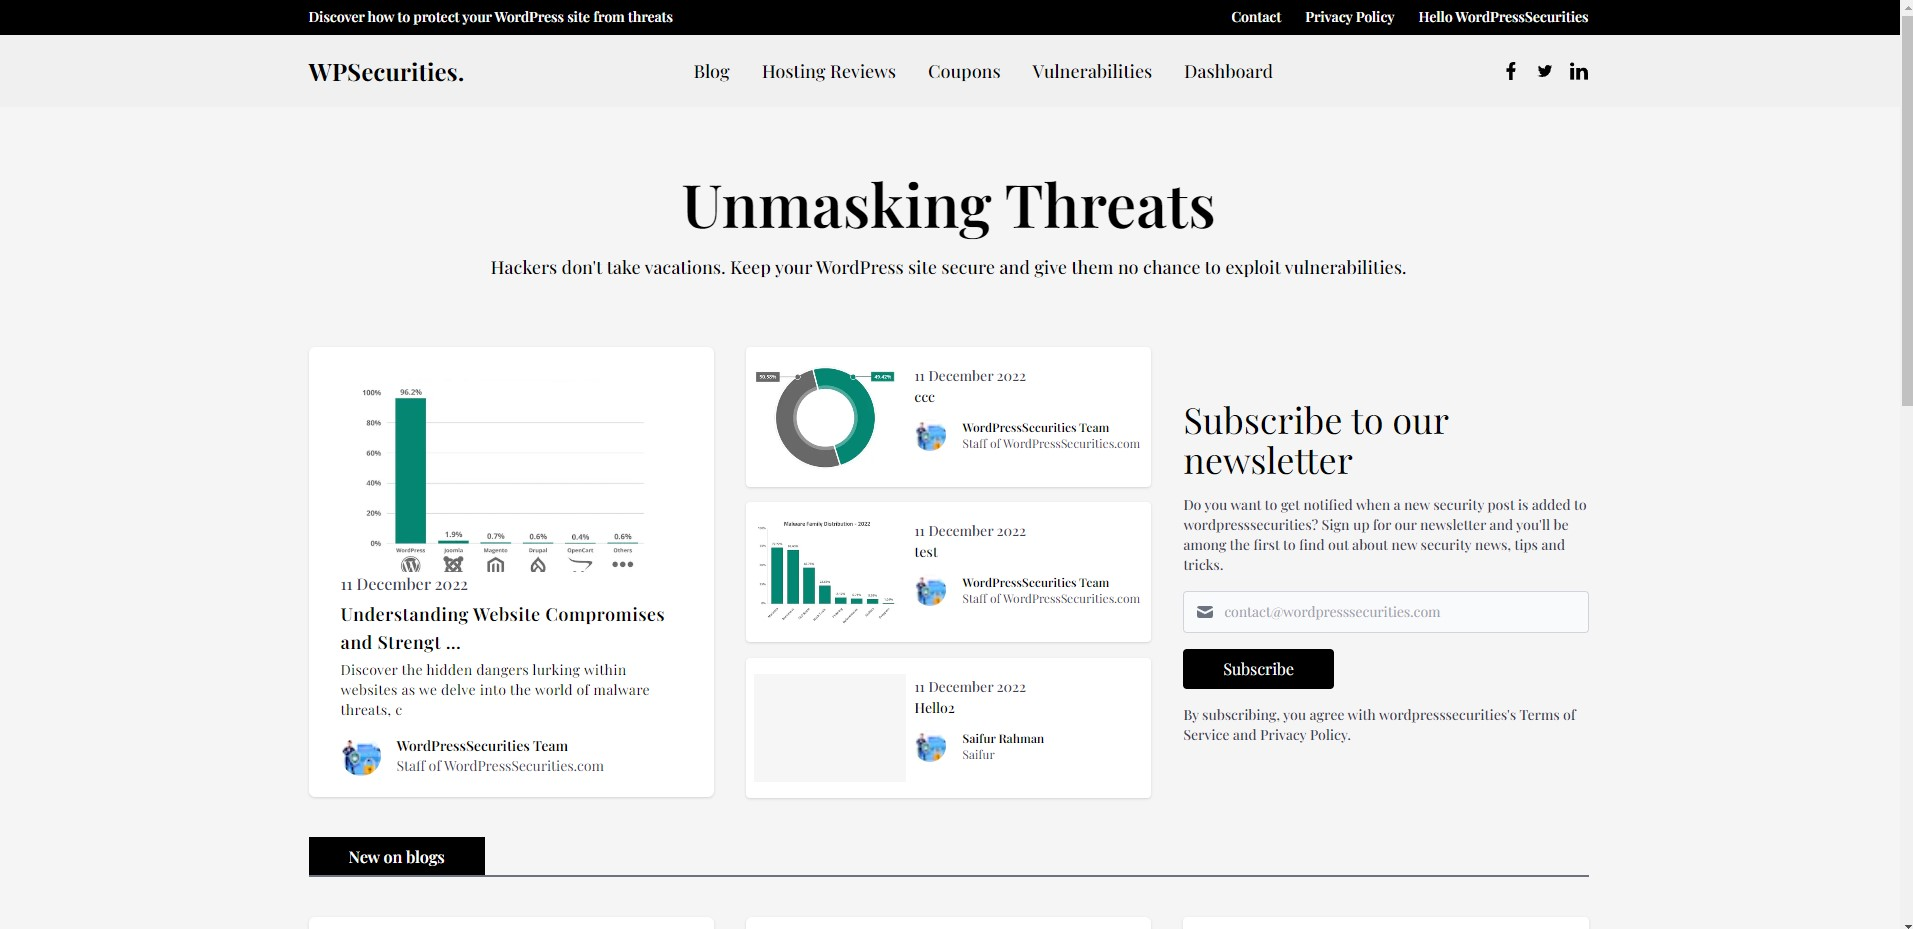
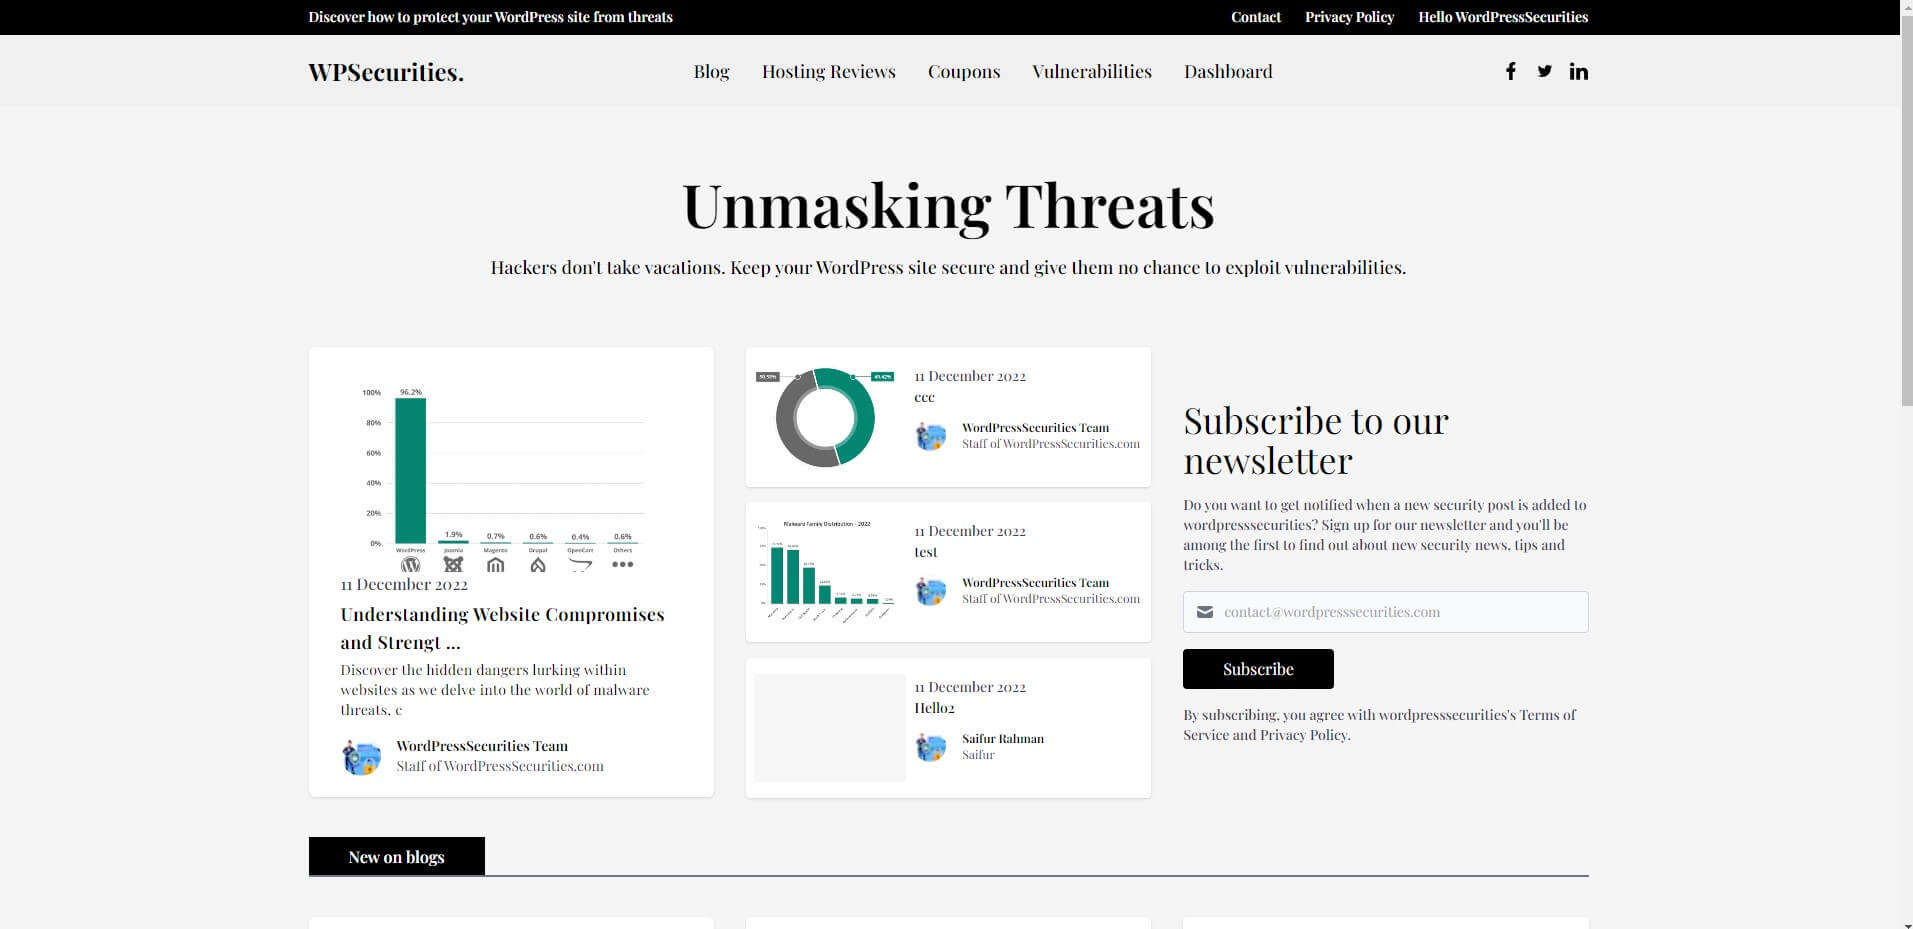
Optimized images

diff --git a/app/Projects.tsx b/app/Projects.tsx
@@ -1,80 +1,83 @@
-import React from "react";
-import Image, { StaticImageData } from "next/image";
-import Title from "@/components/Title";
-import { Button } from "@/components/Button";
-import Link from "next/link";
-import { ArrowUpRight } from "@/components/Icons";
+import React from 'react';
+import Image, { StaticImageData } from 'next/image';
+import Title from '@/components/Title';
+import { Button } from '@/components/Button';
+import Link from 'next/link';
+import { ArrowUpRight } from '@/components/Icons';
+import wordpresssecurities from '@/public/wordpresssecurities.jpg';
+import vehicleTracking from '@/public/vehicleTracking.png';
+import snakgeGame from '@/public/snakge-game.jpg';
 
 const projects = [
   {
-    number: "01",
-    top: "10%",
-    title: "WordPress Securities",
-    subTitle: "Full stack application",
-    imgUrl: "/wordpresssecurities.jpg",
+    number: '01',
+    top: '10%',
+    title: 'WordPress Securities',
+    subTitle: 'Full stack application',
+    imgUrl: wordpresssecurities,
     description: `WordPressSecurities.com is dedicated to providing top-notch WordPress Security and Malware removal services.`,
     technologies: [
-      "Typescript",
-      "Next.js",
-      "Mongodb",
-      "Prisma",
-      "Clerk Auth",
-      "tailwindcss",
-      "cloudinary",
-      "zustand",
-      "stripe",
-      "pusher",
-      "shadcn/ui",
-      "headless wordpress",
-      "contentful",
+      'Typescript',
+      'Next.js',
+      'Mongodb',
+      'Prisma',
+      'Clerk Auth',
+      'tailwindcss',
+      'cloudinary',
+      'zustand',
+      'stripe',
+      'pusher',
+      'shadcn/ui',
+      'headless wordpress',
+      'contentful',
     ],
-    liveLink: "https://www.wordpresssecurities.com/",
-    github: "https://github.com/mdpabel/WordPressSecurities",
+    liveLink: 'https://www.wordpresssecurities.com/',
+    github: 'https://github.com/mdpabel/WordPressSecurities',
   },
   {
-    number: "02",
-    top: "16%",
-    title: "Real time vehicle tracking system",
-    subTitle: "Full stack application",
-    imgUrl: "/vehicleTracking.png",
+    number: '02',
+    top: '16%',
+    title: 'Real time vehicle tracking system',
+    subTitle: 'Full stack application',
+    imgUrl: vehicleTracking,
     description:
-      "Real-time Vehicle Tracking is a fullstack application that enables users to track the real-time location of vehicles. ",
+      'Real-time Vehicle Tracking is a fullstack application that enables users to track the real-time location of vehicles. ',
     technologies: [
-      "Javascript",
-      "NodeJs",
-      "ExpressJs",
-      "React-native",
-      "Redis",
-      "IoT sensors",
-      "socket.io",
-      "firebase",
+      'Javascript',
+      'NodeJs',
+      'ExpressJs',
+      'React-native',
+      'Redis',
+      'IoT sensors',
+      'socket.io',
+      'firebase',
     ],
-    liveLink: "https://github.com/mdpabel/Real-time-Vehicle-Tracking",
-    github: "https://github.com/mdpabel/Real-time-Vehicle-Tracking",
+    liveLink: 'https://github.com/mdpabel/Real-time-Vehicle-Tracking',
+    github: 'https://github.com/mdpabel/Real-time-Vehicle-Tracking',
   },
   {
-    number: "03",
-    top: "10%",
-    title: "Snake game",
-    subTitle: "Frontend application",
-    imgUrl: "/snakge-game.jpg",
+    number: '03',
+    top: '10%',
+    title: 'Snake game',
+    subTitle: 'Frontend application',
+    imgUrl: snakgeGame,
     description: `A doubly linked list was utilized to enable efficient manipulation of the snake's movements and growth, resulting in a seamless and engaging gaming experience.`,
     technologies: [
-      "Javascript",
-      "React",
-      "Doubly Linked list",
-      "use-sound",
-      "tailwindcss",
+      'Javascript',
+      'React',
+      'Doubly Linked list',
+      'use-sound',
+      'tailwindcss',
     ],
-    liveLink: "https://snake-game-pi-amber.vercel.app/",
-    github: "https://github.com/mdpabel/snake-game",
+    liveLink: 'https://snake-game-pi-amber.vercel.app/',
+    github: 'https://github.com/mdpabel/snake-game',
   },
 ];
 
 const Projects = () => {
   return (
-    <div className="md:mt-[30px]">
-      <Title className="md:sticky top-5 mt-10">Personal Projects</Title>
+    <div className='md:mt-[30px]'>
+      <Title className='md:sticky top-5 mt-10'>Personal Projects</Title>
       <div>
         {projects.map((work, index) => (
           <ProjectCard
@@ -121,44 +124,43 @@ const ProjectCard = ({
   return (
     <div
       style={{
-        top: top ? top : "10%",
+        top: top ? top : '10%',
         zIndex: parseInt(number) * 10,
       }}
-      className="bg-white/50 px-6 md:px-8 backdrop-blur-3xl flex md:pl-20 py-6 md:py-8 md:sticky rounded-2xl gap-4 flex-col md:flex-row max-w-5xl mx-auto md:max-h-[80vh] my-10 justify-between shadow-sm border"
-    >
-      <div className="flex flex-col justify-between w-full space-y-4 md:w-1/2 ">
-        <h2 className="text-2xl font-medium text-gray-600">{number}</h2>
-        <div className="space-y-3 ">
-          <h2 className="inline-block text-gray-600 font-medium text-2xl md:text-3xl tracking-[-1.25px] ">
+      className='bg-white/50 px-6 md:px-8 backdrop-blur-3xl flex md:pl-20 py-6 md:py-8 md:sticky rounded-2xl gap-4 flex-col md:flex-row max-w-5xl mx-auto md:max-h-[80vh] my-10 justify-between shadow-sm border'>
+      <div className='flex flex-col justify-between w-full space-y-4 md:w-1/2 '>
+        <h2 className='text-2xl font-medium text-gray-600'>{number}</h2>
+        <div className='space-y-3 '>
+          <h2 className='inline-block text-gray-600 font-medium text-2xl md:text-3xl tracking-[-1.25px] '>
             {title}
           </h2>
-          <h3 className="font-medium text-gray-700">{subTitle}</h3>
+          <h3 className='font-medium text-gray-700'>{subTitle}</h3>
         </div>
-        <div className="space-y-4">
-          <p className="text-base leading-normal text-paragraph">
+        <div className='space-y-4'>
+          <p className='text-base leading-normal text-paragraph'>
             {description}
           </p>
-          <div className="space-x-3 md:space-x-4">
+          <div className='space-x-3 md:space-x-4'>
             <Button asChild>
-              <Link target="_blank" href={liveLink}>
+              <Link target='_blank' href={liveLink}>
                 Live Link <ArrowUpRight />
               </Link>
             </Button>
             <Button asChild>
-              <Link target="_blank" href={github}>
+              <Link target='_blank' href={github}>
                 Github <ArrowUpRight />
               </Link>
             </Button>
           </div>
         </div>
-        <ul className="flex flex-wrap pt-4 text-sm list-disc list-inside gap-x-4 text-paragraph">
+        <ul className='flex flex-wrap pt-4 text-sm list-disc list-inside gap-x-4 text-paragraph'>
           {technologies.map((label, index) => (
             <li key={index}>{label}</li>
           ))}
         </ul>
       </div>
-      <div className="flex items-center justify-center w-full md:w-1/2">
-        <Image width={400} height={400} src={imgUrl} alt={title} />
+      <div className='flex items-center justify-center w-full md:w-1/2'>
+        <Image src={imgUrl} alt={title} />
       </div>
     </div>
   );

diff --git a/app/about/page.tsx b/app/about/page.tsx
@@ -1,7 +1,5 @@
 import React from 'react';
-import Link from 'next/link';
 import Image from 'next/image';
-import Title from '@/components/Title';
 import WorldDominance from './WorldDominance';
 import {
   lastUpdate,
@@ -11,6 +9,7 @@ import {
   worldDominaation,
 } from './data';
 import Skills from '../Skills';
+import MyImg from '@/public/me_2.jpg';
 
 export const dynamic = 'force-static';
 
@@ -28,7 +27,7 @@ const About = async () => {
 
   return (
     <div className='space-y-4 max-w-4xl mx-auto py-2 md:py-6'>
-      <Image src='/me_2.jpg' width={1200} height={800} alt='MD Pabel' />
+      <Image src={MyImg} alt='MD Pabel' />
       <div className='max-w-3xl mx-auto space-y-10'>
         <div className='space-y-4'>
           <h2 className='text-2xl font-semibold text-gray-800'>About</h2>
